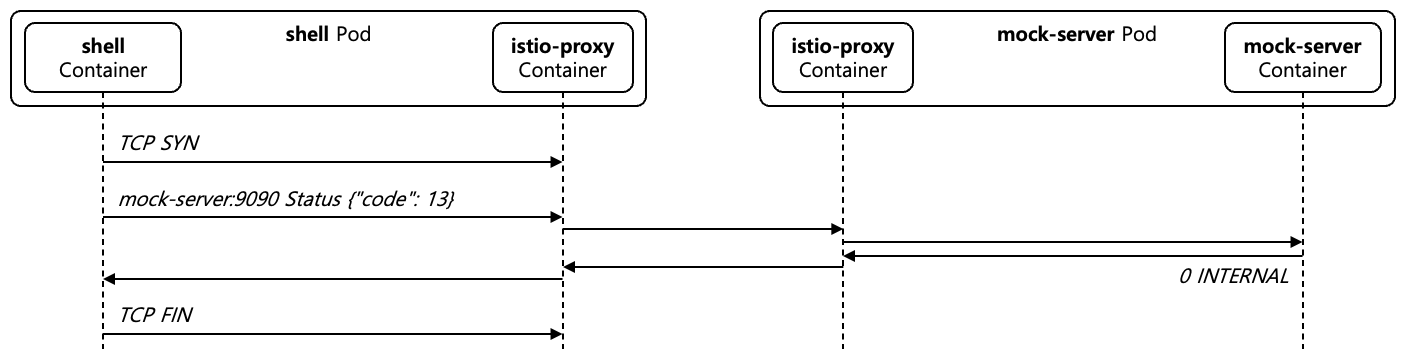
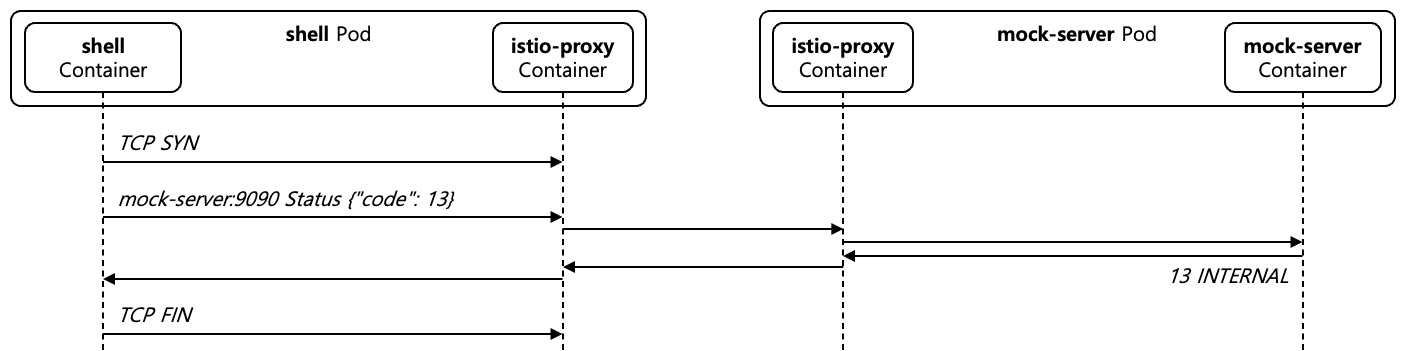
update

diff --git a/content/docs/theory-analysis/istio-sidecar-proxy-access-log/index.md b/content/docs/theory-analysis/istio-sidecar-proxy-access-log/index.md
@@ -1731,15 +1731,15 @@ no healthy upstream
 
 [Text 20]는 `shell` Pod의 `istio-proxy`의 Access Log를 나타내고 있다. `shell` Pod의 요청이 `istio-proxy`에 의해서 `mock-server` Pod에 전달되지 않기 때문에 `mock-server` Pod의 `istio-proxy`의 Access Log에는 아무것도 남지 않는다. `response_code_details`에 `upstream_reset_before_response_started{remote_connection_failure|delayed_connect_error:_Connection_refused}`, 즉 Remote Connection Failure와 Delayed Connect Error가 발생한 사실을 확인할 수 있다. 이 부분을 제외하고는 Timeout에 의해서 Retry를 수행하는 Case와 동일한 결과를 보여준다.
 
-#### 1.2.12. Upstream Timeout Case
+#### 1.2.12. Upstream Request Timeout Case
 
-{{< figure caption="[Figure 13] Upstream Timeout Case" src="images/http-upstream-timeout-case.png" width="1000px" >}}
+{{< figure caption="[Figure 13] Upstream Request Timeout Case" src="images/http-upstream-request-timeout-case.png" width="1000px" >}}
 
-```shell {caption="[Shell 11] Upstream Timeout Case / curl Command", linenos=table}
+```shell {caption="[Shell 11] Upstream Request Timeout Case / curl Command", linenos=table}
 $ kubectl exec -it shell -- curl -s mock-server:8080/delay/10000
 ```
 
-[Figure 13]는 `shell` Pod에서 `curl` 명령어를 이용하여 `mock-server`의 `/delay/10000` Endpoint에 `GET` 요청을 전달하였지만, `mock-server` Pod의 `istio-proxy`에서 5000ms 대기후에 응답이 오지 않아 Timeout 처리하는 Case를 나타내고 있다. [Shell 18]은 [Figure 13]의 내용을 실행하는 예시를 나타내고 있다.
+[Figure 13]는 `shell` Pod에서 `curl` 명령어를 이용하여 `mock-server`의 `/delay/10000` Endpoint에 `GET` 요청을 전달하였지만, `mock-server` Pod의 `istio-proxy`에서 5000ms 대기후에 응답이 오지 않아 Request를 Timeout 처리하는 Upstream Request Timeout Case를 나타내고 있다. [Shell 18]은 [Figure 13]의 내용을 실행하는 예시를 나타내고 있다.
 
 [File 1]의 Virtual Service에 의해서 `mock-server` Pod로 전송된 요청은 최대 5000ms 대기할 수 있다. 하지만 `mock-server` Pod의 `/delay/10000` Endpoint에 전송한 요청은 10000ms가 필요하기 때문에 Timeout이 발생한다. `mock-server` Pod의 `istio-proxy`는 Timeout 발생시 TCP FIN Flag와 TCP RST Flag를 차례로 전송하여, `mock-server` Pod와의 연결을 종료한다. 또한 `504 Gateway Timeout` 응답을 `shell` Container에게 전송한다.
 
@@ -1977,16 +1977,16 @@ command terminated with exit code 77
 
 [Text 25]은 `shell` Pod의 `istio-proxy`의 Access Log를 나타내고 있으며, [Text 26]는 `mock-server` Pod의 `istio-proxy`의 Access Log를 나타내고 있다. 두 Access Log에서 모두 `/mock.MockService/Status` 함수에 접근하는 내역과 `grpc_status`가 `Internal`로 나타나는 것을 확인할 수 있다. 또한 `response_code`가 `200 OK`로 나타나는 것을 확인할 수 있으며, gRPC 이용시 gRPC의 결과와 상관없이 `response_code`는 항상 `200 OK`로 나타난다.
 
-#### 1.3.3. Downstream Reset Case
+#### 1.3.3. Downstream HTTP/2 RST_STREAM Case
 
-{{< figure caption="[Figure 16] Downstream Remote Disconnect Case" src="images/grpc-downstream-reset-case.png" width="1000px" >}}
+{{< figure caption="[Figure 16] Downstream HTTP/2 RST_STREAM Case" src="images/grpc-downstream-http2-rst-stream-case.png" width="1000px" >}}
 
-```shell {caption="[Shell 14] Downstream Remote Disconnect Case / grpcurl Command", linenos=table}
+```shell {caption="[Shell 14] Downstream HTTP/2 RST_STREAM Case / grpcurl Command", linenos=table}
 $ kubectl exec -it shell -- grpcurl -plaintext -proto mock.proto -d '{"milliseconds": 5000}' mock-server:9090 mock.MockService/Delay
 ^C
 ```
 
-[Figure 16]는 `shell` Pod에서 `grpcurl` 명령어를 이용하여 `mock-server`의 `/mock.MockService/Delay` 함수에 `milliseconds: 5000` 요청을 전달하고, 5000ms가 지나가 전에 `Ctrl+C` 명령어를 이용하여 요청을 강제로 종료하는 Downstream Reset Case를 나타내고 있다. [Shell 14]은 [Figure 16]의 내용을 실행하는 예시를 나타내고 있다.
+[Figure 16]는 `shell` Pod에서 `grpcurl` 명령어를 이용하여 `mock-server`의 `/mock.MockService/Delay` 함수에 `milliseconds: 5000` 요청을 전달하고, 5000ms가 지나가 전에 `Ctrl+C` 명령어를 이용하여 요청을 강제로 종료하는 Downstream HTTP/2 RST_STREAM Case를 나타내고 있다. [Shell 14]은 [Figure 16]의 내용을 실행하는 예시를 나타내고 있다.
 
 `grpcurl` 명령어 실행 중 강제로 종료하면 `grpcurl` 명령어는 TCP FIN Flag를 `shell` Pod의 `istio-proxy`에게 전송하며, `shell` Pod의 `istio-proxy`는 TCP FIN Flag 대신 HTTP/2 RST_STREAM Frame을 `mock-server` Pod에게 전송하여 최종적으로 `mock-server` Container에게 전달하여 연결을 종료한다.
 
@@ -2059,6 +2059,144 @@ $ kubectl exec -it shell -- grpcurl -plaintext -proto mock.proto -d '{"milliseco
 [Text 27]은 `shell` Pod의 `istio-proxy`의 Access Log를 나타내고 있으며, [Text 28]는 `mock-server` Pod의 `istio-proxy`의 Access Log를 나타내고 있다. 두 Access Log에서 모두 `/mock.MockService/Delay` 함수에 접근하는 내역과 `response_code`가 `0`, `grpc_status`가 `-`로 나타나는 것을 확인할 수 있다.
 
 또한 `shell` Pod의 `istio-proxy`에서는 `grpcurl` 명령어로부터 TCP FIN Flag를 수신하기 때문에 `response_flags`가 `DC (DownstreamConnectionTermination)`로 나타나는 것을 확인할 수 있으며, `mock-server` Pod의 `istio-proxy`에서는 HTTP/2 RST_STREAM Frame을 수신하기 때문에 `response_flags`가 `DR (DownstreamRemoteReset)`로 나타나는 것을 확인할 수 있다.
+
+#### 1.3.4. Upstream TCP RST before Response Case
+
+```shell {caption="[Shell 15] Upstream TCP RST before Response Case / grpcurl Command", linenos=table}
+$ kubectl exec -it shell -- grpcurl -plaintext -proto mock.proto -d '{"milliseconds": 1000}' mock-server:9090 mock.MockService/ResetBeforeResponse
+ERROR:
+  Code: Unavailable
+  Message: upstream connect error or disconnect/reset before headers. reset reason: connection termination
+command terminated with exit code 78
+```
+
+```json {caption="[Text 29] Upstream TCP RST before Response Case / shell Pod Access Log", linenos=table}
+{
+  "start_time": "2026-01-10T15:25:19.861Z",
+  "method": "POST",
+  "path": "/mock.MockService/ResetBeforeResponse",
+  "protocol": "HTTP/2",
+  "response_code": "200",
+  "response_flags": "URX",
+  "response_code_details": "via_upstream",
+  "connection_termination_details": "-",
+  "upstream_transport_failure_reason": "-",
+  "bytes_received": "8",
+  "bytes_sent": "0",
+  "duration": "3066",
+  "upstream_service_time": "3064",
+  "x_forwarded_for": "-",
+  "user_agent": "grpcurl/v1.9.3 grpc-go/1.61.0",
+  "request_id": "b195727a-1004-9084-931d-ba8c01f7b1e3",
+  "authority": "mock-server:9090",
+  "upstream_host": "10.244.2.22:9090",
+  "upstream_cluster": "outbound|9090||mock-server.default.svc.cluster.local",
+  "upstream_local_address": "10.244.1.8:55012",
+  "downstream_local_address": "10.96.211.131:9090",
+  "downstream_remote_address": "10.244.1.8:59464",
+  "requested_server_name": "-",
+  "route_name": "-",
+  "grpc_status": "Unavailable",
+  "upstream_request_attempt_count": "3",
+  "request_duration": "1",
+  "response_duration": "3065"
+}
+```
+
+```json {caption="[Text 30] Upstream TCP RST before Response Case / mock-server Pod Access Log", linenos=table}
+{
+  "start_time": "2026-01-10T15:25:19.863Z",
+  "method": "POST",
+  "path": "/mock.MockService/ResetBeforeResponse",
+  "protocol": "HTTP/2",
+  "response_code": "200",
+  "response_flags": "UC",
+  "response_code_details": "upstream_reset_before_response_started{connection_termination}",
+  "connection_termination_details": "-",
+  "upstream_transport_failure_reason": "-",
+  "bytes_received": "8",
+  "bytes_sent": "0",
+  "duration": "1005",
+  "upstream_service_time": "-",
+  "x_forwarded_for": "-",
+  "user_agent": "grpcurl/v1.9.3 grpc-go/1.61.0",
+  "request_id": "b195727a-1004-9084-931d-ba8c01f7b1e3",
+  "authority": "mock-server:9090",
+  "upstream_host": "10.244.2.22:9090",
+  "upstream_cluster": "inbound|9090||",
+  "upstream_local_address": "127.0.0.6:35179",
+  "downstream_local_address": "10.244.2.22:9090",
+  "downstream_remote_address": "10.244.1.8:55012",
+  "requested_server_name": "-",
+  "route_name": "default",
+  "grpc_status": "Unavailable",
+  "upstream_request_attempt_count": "1",
+  "request_duration": "0",
+  "response_duration": "-"
+}
+{
+  "start_time": "2026-01-10T15:25:20.888Z",
+  "method": "POST",
+  "path": "/mock.MockService/ResetBeforeResponse",
+  "protocol": "HTTP/2",
+  "response_code": "200",
+  "response_flags": "UC",
+  "response_code_details": "upstream_reset_before_response_started{connection_termination}",
+  "connection_termination_details": "-",
+  "upstream_transport_failure_reason": "-",
+  "bytes_received": "8",
+  "bytes_sent": "0",
+  "duration": "1002",
+  "upstream_service_time": "-",
+  "x_forwarded_for": "-",
+  "user_agent": "grpcurl/v1.9.3 grpc-go/1.61.0",
+  "request_id": "b195727a-1004-9084-931d-ba8c01f7b1e3",
+  "authority": "mock-server:9090",
+  "upstream_host": "10.244.2.22:9090",
+  "upstream_cluster": "inbound|9090||",
+  "upstream_local_address": "127.0.0.6:53123",
+  "downstream_local_address": "10.244.2.22:9090",
+  "downstream_remote_address": "10.244.1.8:55012",
+  "requested_server_name": "-",
+  "route_name": "default",
+  "grpc_status": "Unavailable",
+  "upstream_request_attempt_count": "1",
+  "request_duration": "0",
+  "response_duration": "-"
+}
+{
+  "start_time": "2026-01-10T15:25:21.922Z",
+  "method": "POST",
+  "path": "/mock.MockService/ResetBeforeResponse",
+  "protocol": "HTTP/2",
+  "response_code": "200",
+  "response_flags": "UC",
+  "response_code_details": "upstream_reset_before_response_started{connection_termination}",
+  "connection_termination_details": "-",
+  "upstream_transport_failure_reason": "-",
+  "bytes_received": "8",
+  "bytes_sent": "0",
+  "duration": "1003",
+  "upstream_service_time": "-",
+  "x_forwarded_for": "-",
+  "user_agent": "grpcurl/v1.9.3 grpc-go/1.61.0",
+  "request_id": "b195727a-1004-9084-931d-ba8c01f7b1e3",
+  "authority": "mock-server:9090",
+  "upstream_host": "10.244.2.22:9090",
+  "upstream_cluster": "inbound|9090||",
+  "upstream_local_address": "127.0.0.6:48095",
+  "downstream_local_address": "10.244.2.22:9090",
+  "downstream_remote_address": "10.244.1.8:55012",
+  "requested_server_name": "-",
+  "route_name": "default",
+  "grpc_status": "Unavailable",
+  "upstream_request_attempt_count": "1",
+  "request_duration": "0",
+  "response_duration": "-"
+}
+```
+
+#### 1.3.5. Upstream TCP RST after Response Case
 
 #### 2.2.4. Upstream Disconnect Case
 
